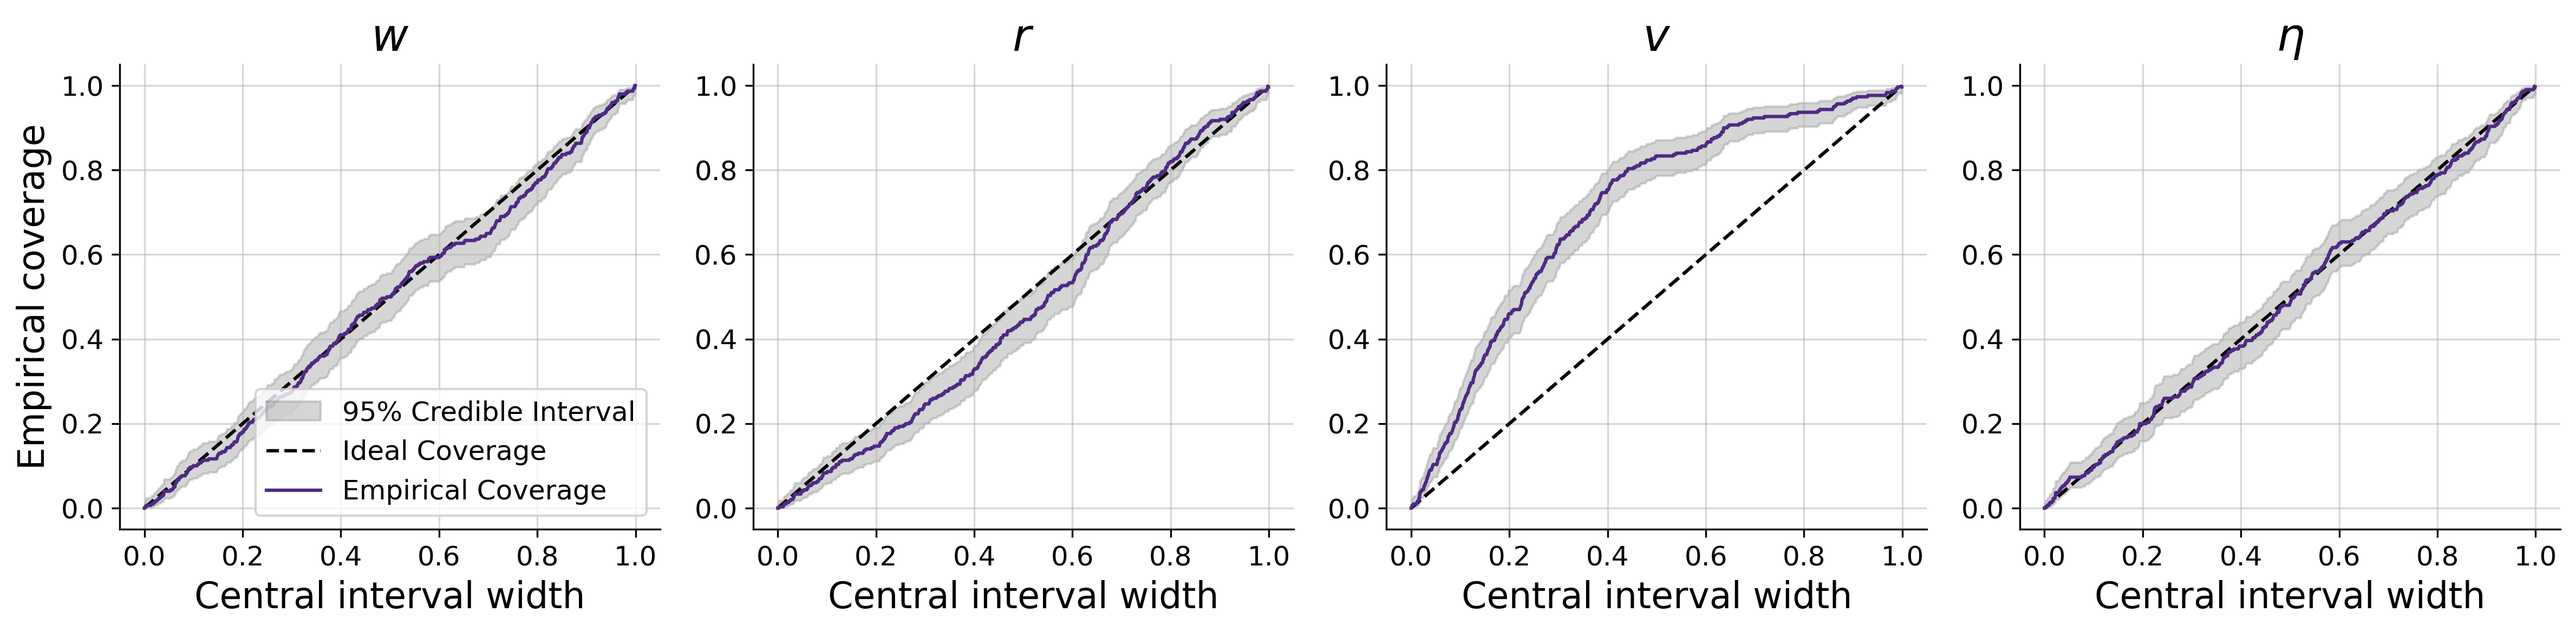
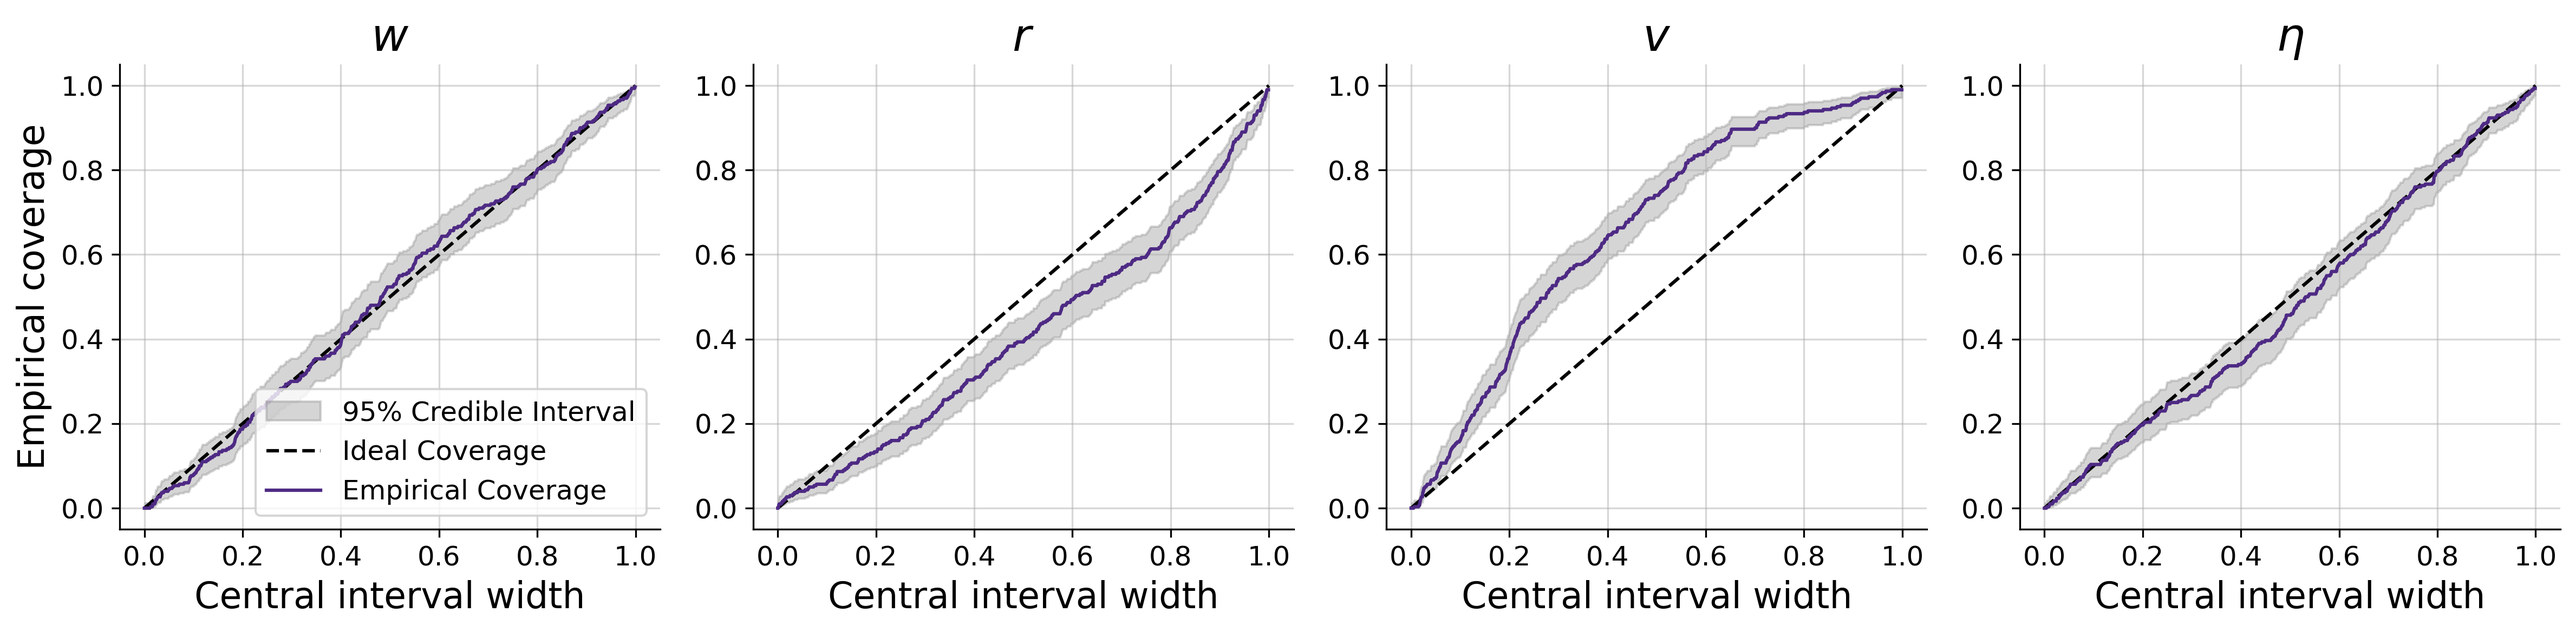
Update results

diff --git a/togetherflow/experiments/tflow_complete_pooling.py b/togetherflow/experiments/tflow_complete_pooling.py
@@ -27,7 +27,7 @@ if __name__ == "__main__":
 
     debug = True
     gather = True
-    epochs = 100
+    epochs = 50
     online = False
 
     # Define simulator
@@ -138,7 +138,7 @@ if __name__ == "__main__":
             logging.info("Generating training set...")
             training_set   = workflow.simulate(30000)
             logging.info("Generating validation set...")
-            validation_set = workflow.simulate(30S0)
+            validation_set = workflow.simulate(300)
             save_npz_dict(training_set, train_path)
             save_npz_dict(validation_set, val_path)
 
@@ -147,7 +147,7 @@ if __name__ == "__main__":
             data=training_set,
             validation_data=validation_set,
             batch_size=64,
-            epochs=1
+            epochs=epochs
         )
 
 
